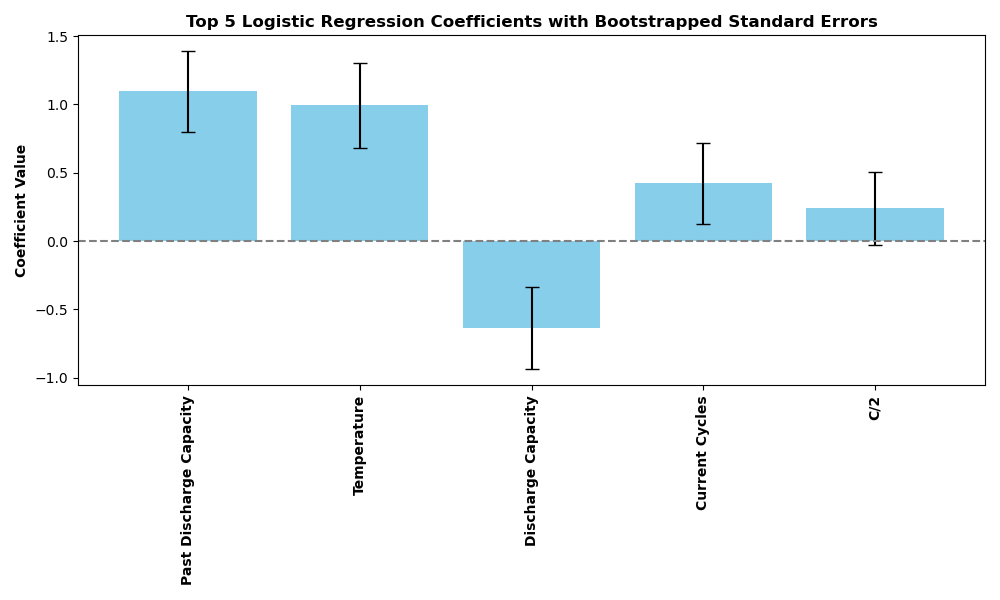
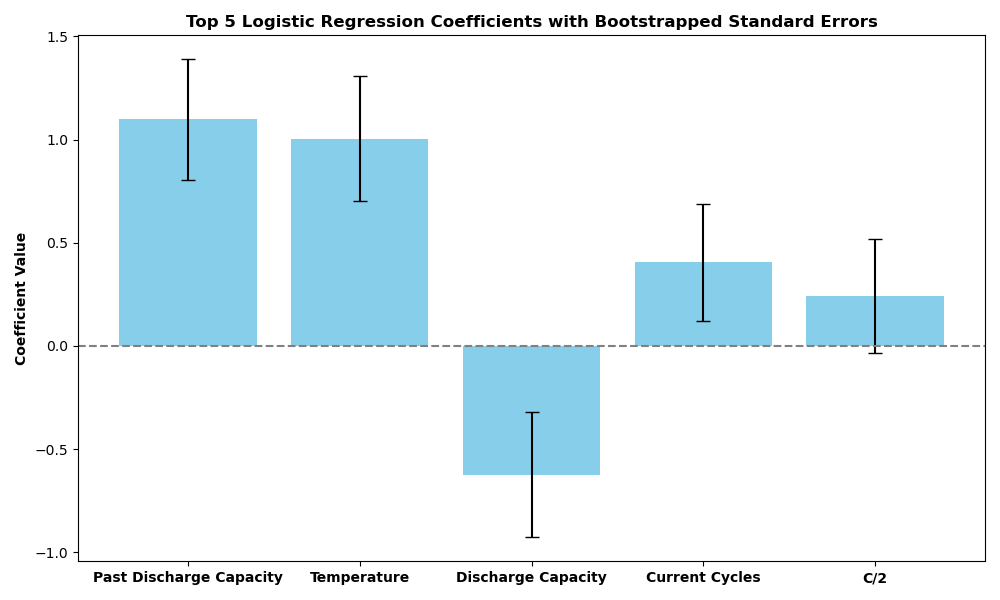
Horizontal Labels

diff --git a/Scripts/Analysis Scripts/manualRemove.py b/Scripts/Analysis Scripts/manualRemove.py
@@ -110,7 +110,7 @@ for i in range(10):
     plt.figure(figsize=(10, 6))
     plt.bar(top5_names, top5_means, yerr=top5_stds, capsize=5, color='skyblue')
     plt.axhline(0, color='gray', linestyle='--')
-    plt.xticks(rotation=90, fontweight='bold')
+    plt.xticks(fontweight='bold')
     plt.title('Top 5 Logistic Regression Coefficients with Bootstrapped Standard Errors', fontweight='bold')
     plt.ylabel('Coefficient Value', fontweight='bold')
     plt.tight_layout()
